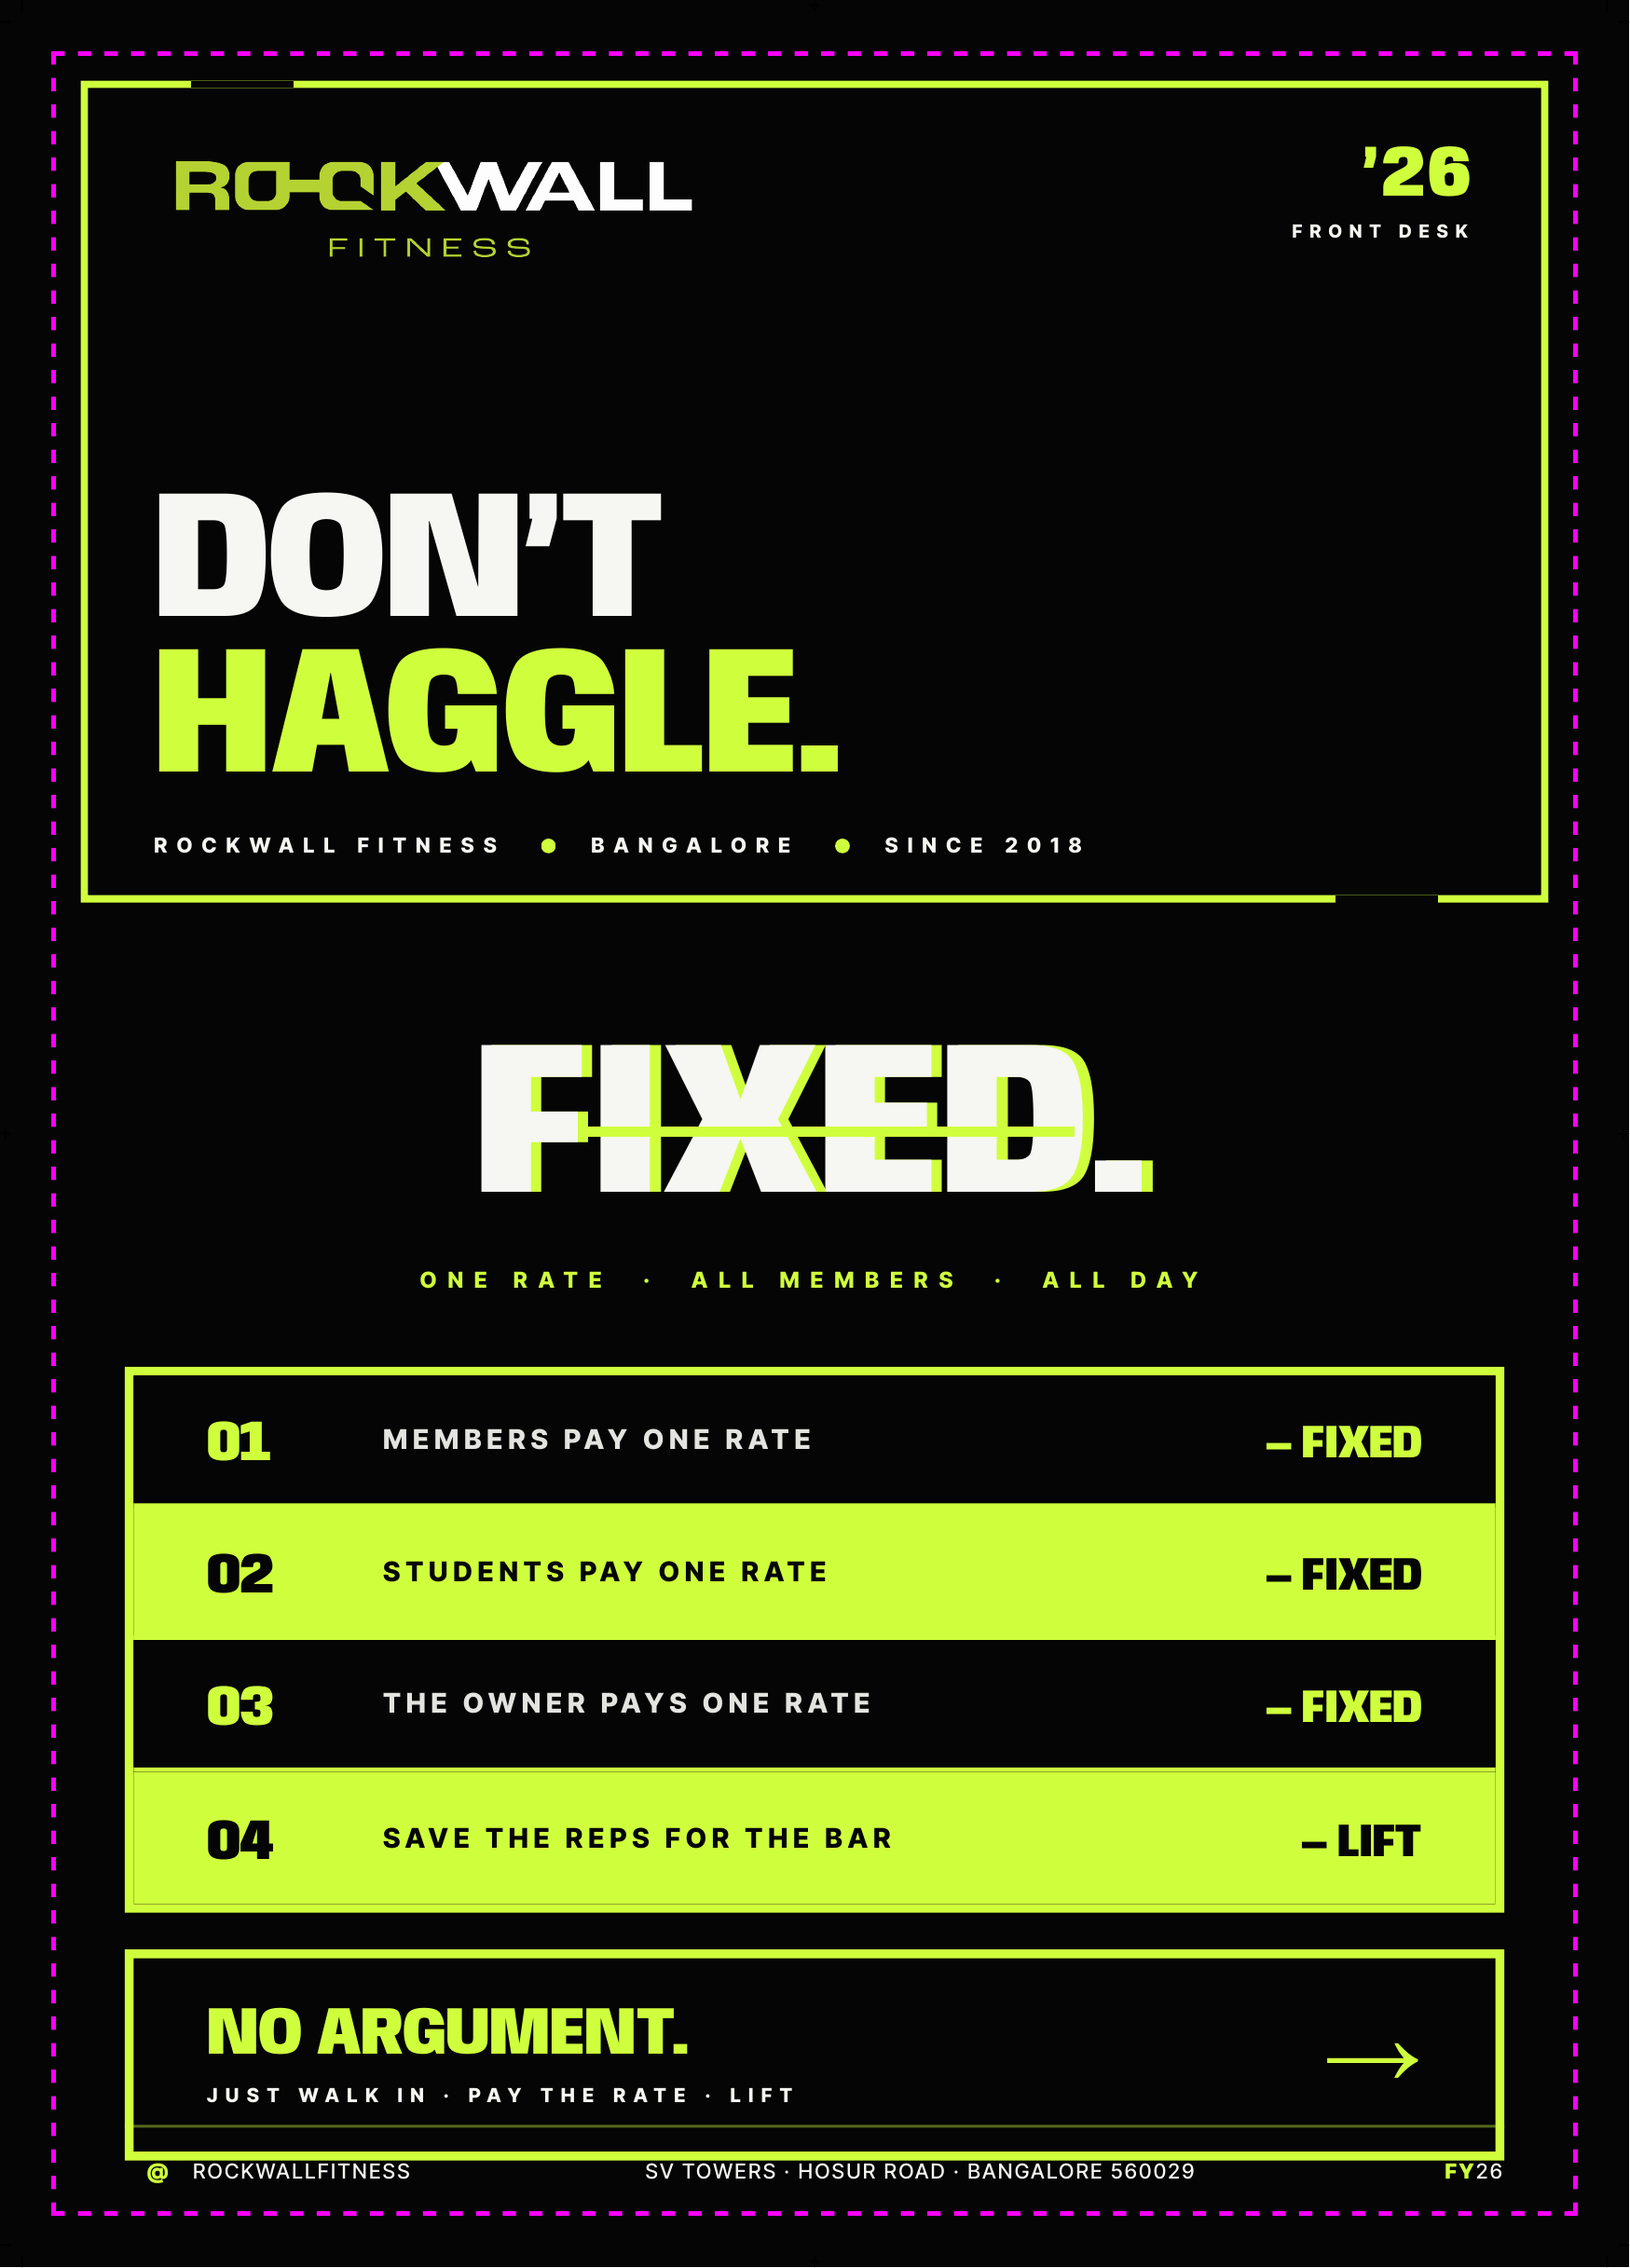
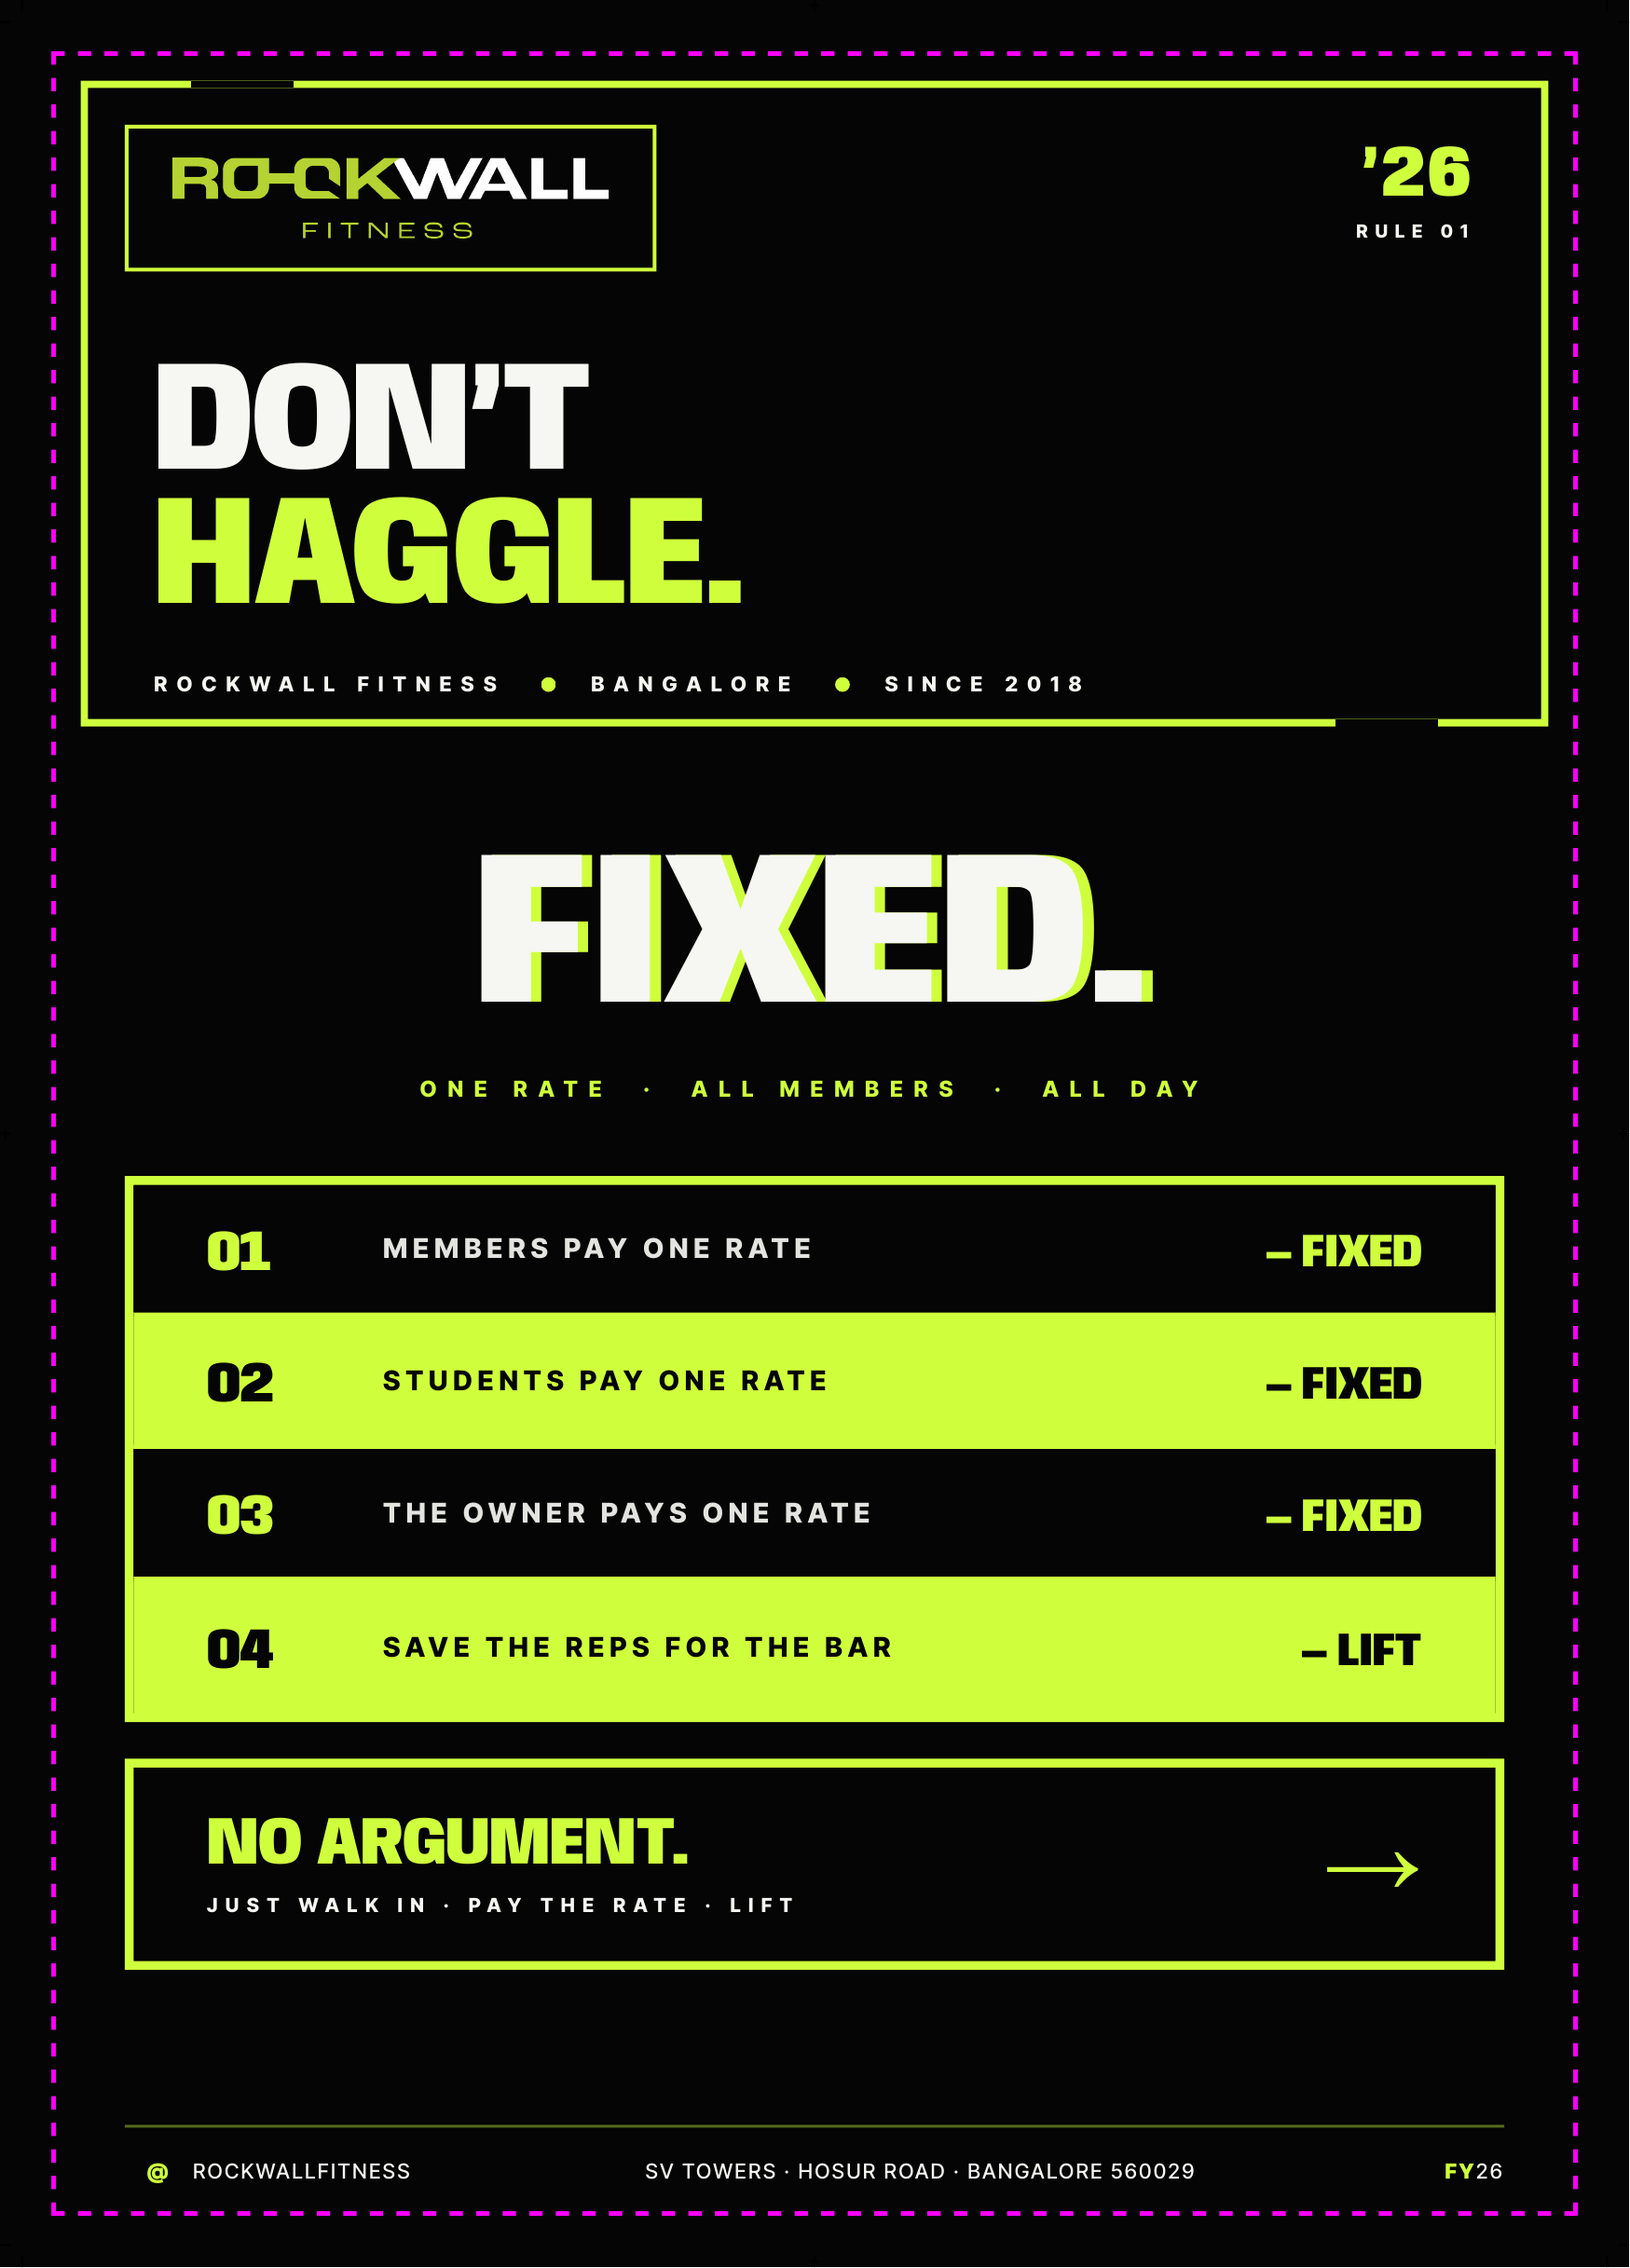
Front-desk v11.1 — audit fixes
User design audit on v11 flagged a few legit issues:

1. Logo chip clipping
   - I read the diagonal cut in 'ROCKWALL' (in the brand mark itself)
     as a clip-path bug. It is the brand identity.
   - But the hex clip-path WAS combining with the brand cut to make it
     read worse. Swapped the hex chip for a flat rectangle chip with a
     0.5mm lime border — visually ties the chip to the keyline frame,
     no more compound cuts.
   - Logo height 13mm -> 11mm + tighter padding 4mm/6mm. Cleaner.

2. Strikethrough on FIXED.
   - The price card's lime bar-through-word works on PRICE LIST because
     the word is wide and the bar reads as a stylistic register accent.
   - On the shorter FIXED. the bar read as a strikethrough — opposite
     of intended meaning. Removed. Ghost-shift behind paper text alone
     does the depth work.

3. Hero dead-zone (~50mm of empty black middle)
   - Hero band 128mm -> 104mm.
   - Headline repositioned from bottom-anchored to top: 46mm.
   - 60pt instead of 70pt — fits the tighter band cleanly.
   - Tagline stays at bottom: 12mm.
   - No more visible 'unfinished layout' middle zone.

4. Year stamp tied to rule table
   - '26 / FRONT DESK -> '26 / RULE 01
   - Year stamp now points at the rule list below it. Mirrors the
     price-card pattern of '26 / RATE CARD pointing at the price list.

diff --git a/sticker_nobargain.html b/sticker_nobargain.html
@@ -34,7 +34,7 @@
      ───────────────────────────────────────── */
   .hero {
     position: relative;
-    width: 100%; height: 128mm;
+    width: 100%; height: 104mm;
     background: var(--ink);
     overflow: hidden;
   }
@@ -58,11 +58,11 @@
     top: 14mm; left: 14mm;
     z-index: 4;
     background: var(--ink);
-    padding: 5mm 9mm 5mm 7mm;
-    clip-path: polygon(0 0, 100% 0, 96% 50%, 100% 100%, 0 100%, 4% 50%);
+    padding: 4mm 6mm;
+    border: 0.5mm solid var(--lime);
   }
   .hero-logo {
-    height: 13mm;
+    height: 11mm;
     display: block;
   }
 
@@ -90,15 +90,15 @@
     margin-top: 1.5mm;
   }
 
-  /* Big headline overlaid at bottom of hero */
+  /* Big headline overlaid in hero */
   .hero-headline {
     position: absolute;
-    bottom: 22mm; left: 18mm; right: 18mm;
+    top: 46mm; left: 18mm; right: 18mm;
     z-index: 4;
     font-family: 'Anybody', sans-serif;
     font-weight: 900;
     font-variation-settings: "wdth" 150;
-    font-size: 70pt;
+    font-size: 60pt;
     color: var(--paper);
     letter-spacing: -0.01em;
     line-height: 0.86;
@@ -109,7 +109,7 @@
   /* Tagline */
   .hero-tag {
     position: absolute;
-    bottom: 14mm; left: 18mm;
+    bottom: 12mm; left: 18mm;
     z-index: 4;
     font-family: 'Inter Tight', sans-serif;
     font-weight: 800;
@@ -132,7 +132,7 @@
      ───────────────────────────────────────── */
   .big-band {
     position: relative;
-    padding: 10mm 18mm 4mm;
+    padding: 8mm 18mm 4mm;
     text-align: center;
   }
   .big-word {
@@ -320,7 +320,7 @@
       <div class="hero-logo-wrap">
         <img class="hero-logo" src="assets/logo.png" alt="Rockwall Fitness">
       </div>
-      <div class="hero-year">&rsquo;26<small>FRONT DESK</small></div>
+      <div class="hero-year">&rsquo;26<small>RULE 01</small></div>
 
       <h1 class="hero-headline">
         DON&rsquo;T<br>
@@ -333,7 +333,7 @@
 
     <!-- ────── BIG WORD BAND ────── -->
     <section class="big-band">
-      <span class="big-word">FIXED.<span class="big-word-bar"></span></span>
+      <span class="big-word">FIXED.</span>
       <div class="big-sub">ONE RATE &nbsp;&middot;&nbsp; ALL MEMBERS &nbsp;&middot;&nbsp; ALL DAY</div>
     </section>
 
